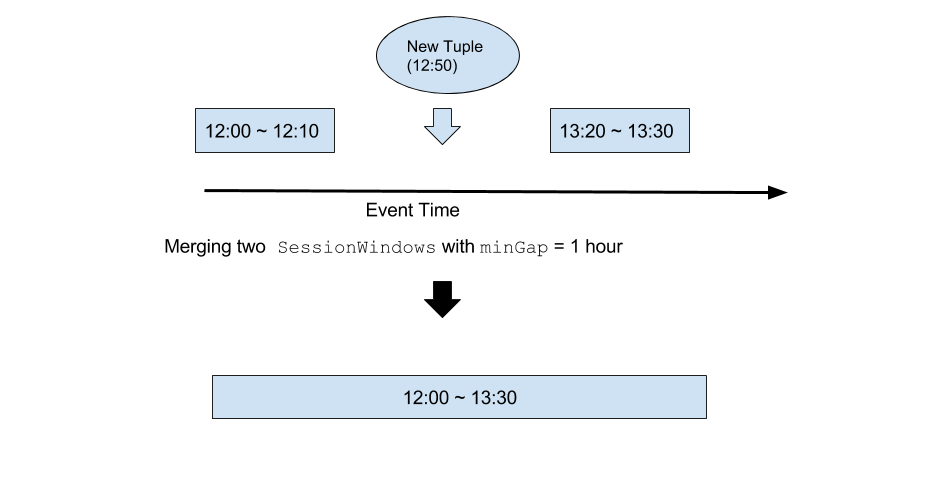
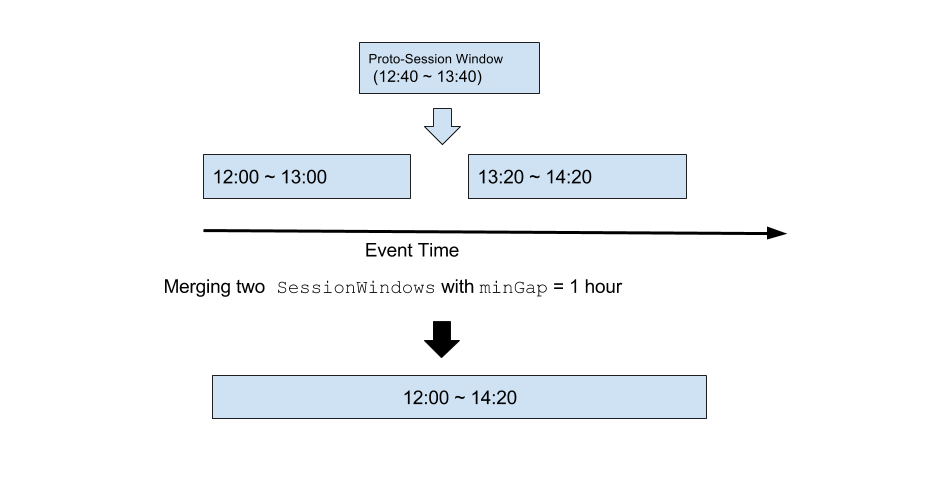
APEXMALHAR-2305 updated documentation on SessionWindow to reflect the new proto-session window semantics

diff --git a/docs/operators/windowedOperator.md b/docs/operators/windowedOperator.md
@@ -81,36 +81,40 @@ windowedOperator.setWindowOption(new WindowOption.TimeWindows(Duration.standardM
 
 ### `SessionWindows`
 
-`SessionWindow`s have variable durations and are based on the key of the tuple. Each tuple is assigned to exactly one window. It takes a duration parameter `minGap`, which specifies the minimum time gap between two `SessionWindow`s of the same key. 
+`SessionWindow`s have variable durations and are based on the key of the tuple. Each tuple is assigned to exactly one window. It takes a duration parameter `minGap`, which specifies the minimum time gap between two tuples that belong to two *different* `SessionWindows` of the same key. `minGap` is also the duration of the "proto-session" window for a single timestamp, and it is the minimum duration of any session window.
 
 ```java
 // Setting a session window option with a minimum gap of one hour
 windowedOperator.setWindowOption(new WindowOption.SessionWindows(Duration.standardHours(1)));
 ```
 
-To ensure that no two `SessionWindow`s of the same key are less than `minGap` apart, upon an arrival of a tuple, the `WindowedOperator` does the following checks:
+Upon arrival of a tuple, a proto-session window is created. A proto-session window for a tuple is a temporary session window with begin timestamp being the tuple timestamp and the duration being `minGap`.
 
-#### The new tuple can be assigned to an existing `SessionWindow` without change
+![](images/windowedOperator/session-windows-4.png)
+
+To ensure that there are no two tuples of the same key in different session windows that are less than `minGap` apart, the `WindowedOperator` does the following checks:
+
+#### The proto-session window can be fit into an existing `SessionWindow` of the same key without change
 
 The new tuple is simply applied to the state of the existing `SessionWindow`.
 
 ![](images/windowedOperator/session-windows-3.png)
 
-#### The arrival of the new tuple would result in a merge of the two existing session windows
+#### The proto-session window overlaps with two existing session windows of the same key
 
-A new Session Window is created with the merged state of the two existing `SessionWindow`s of the same key, plus the new tuple. The two existing `SessionWindow`s will be deleted and retraction triggers for the two deleted windows will be fired. (Please see [here](#triggers) for details on `Trigger`s)
+A new Session Window is created with the merged state of the two existing `SessionWindow`s, plus the new tuple. The two existing `SessionWindow`s will be deleted and retraction triggers for the two deleted windows will be fired. (Please see [here](#triggers) for details on `Trigger`s)
 
 ![](images/windowedOperator/session-windows-1.png) 
 
-#### The arrival of the new tuple would result in an extension of an existing `SessionWindow`s
+#### The proto-session window overlaps with one existing session window of the same key
 
-A new `SessionWindow` is created with the state of the existing `SessionWindow`, plus the new tuple, with a longer duration than the existing `SessionWindow` to cover the new tuple. The existing `SessionWindow` will be deleted and a retraction trigger for the old window will be fired.
+A new `SessionWindow` is created with the state of the existing `SessionWindow`, plus the new tuple, with a longer duration than the existing `SessionWindow` and possibly an earlier begin timestamp to cover the new tuple. The existing `SessionWindow` will be deleted and a retraction trigger for the old window will be fired.
 
 ![](images/windowedOperator/session-windows-2.png) 
 
 #### All of the above checks return false
 
-A new `SessionWindow` is created for the new tuple.
+The proto-session window is in effect and the new tuple is assigned to that window.
 
 ## Timestamp Extractor
 
